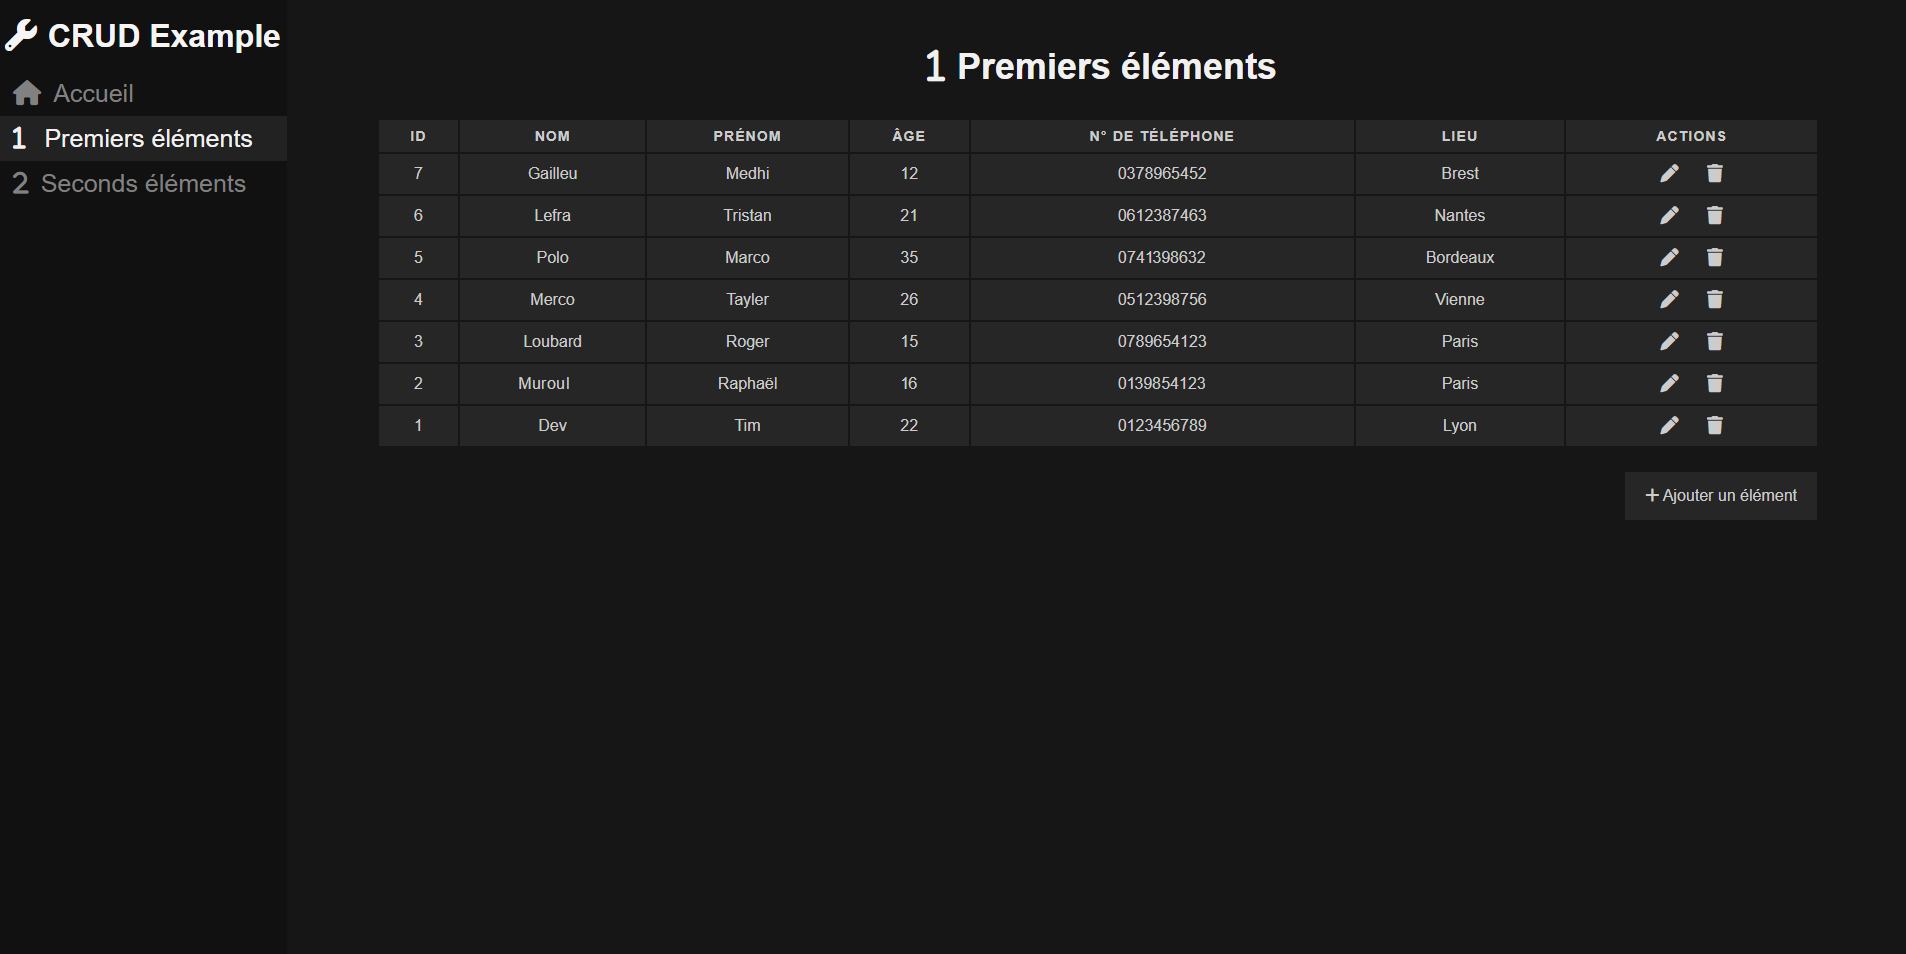
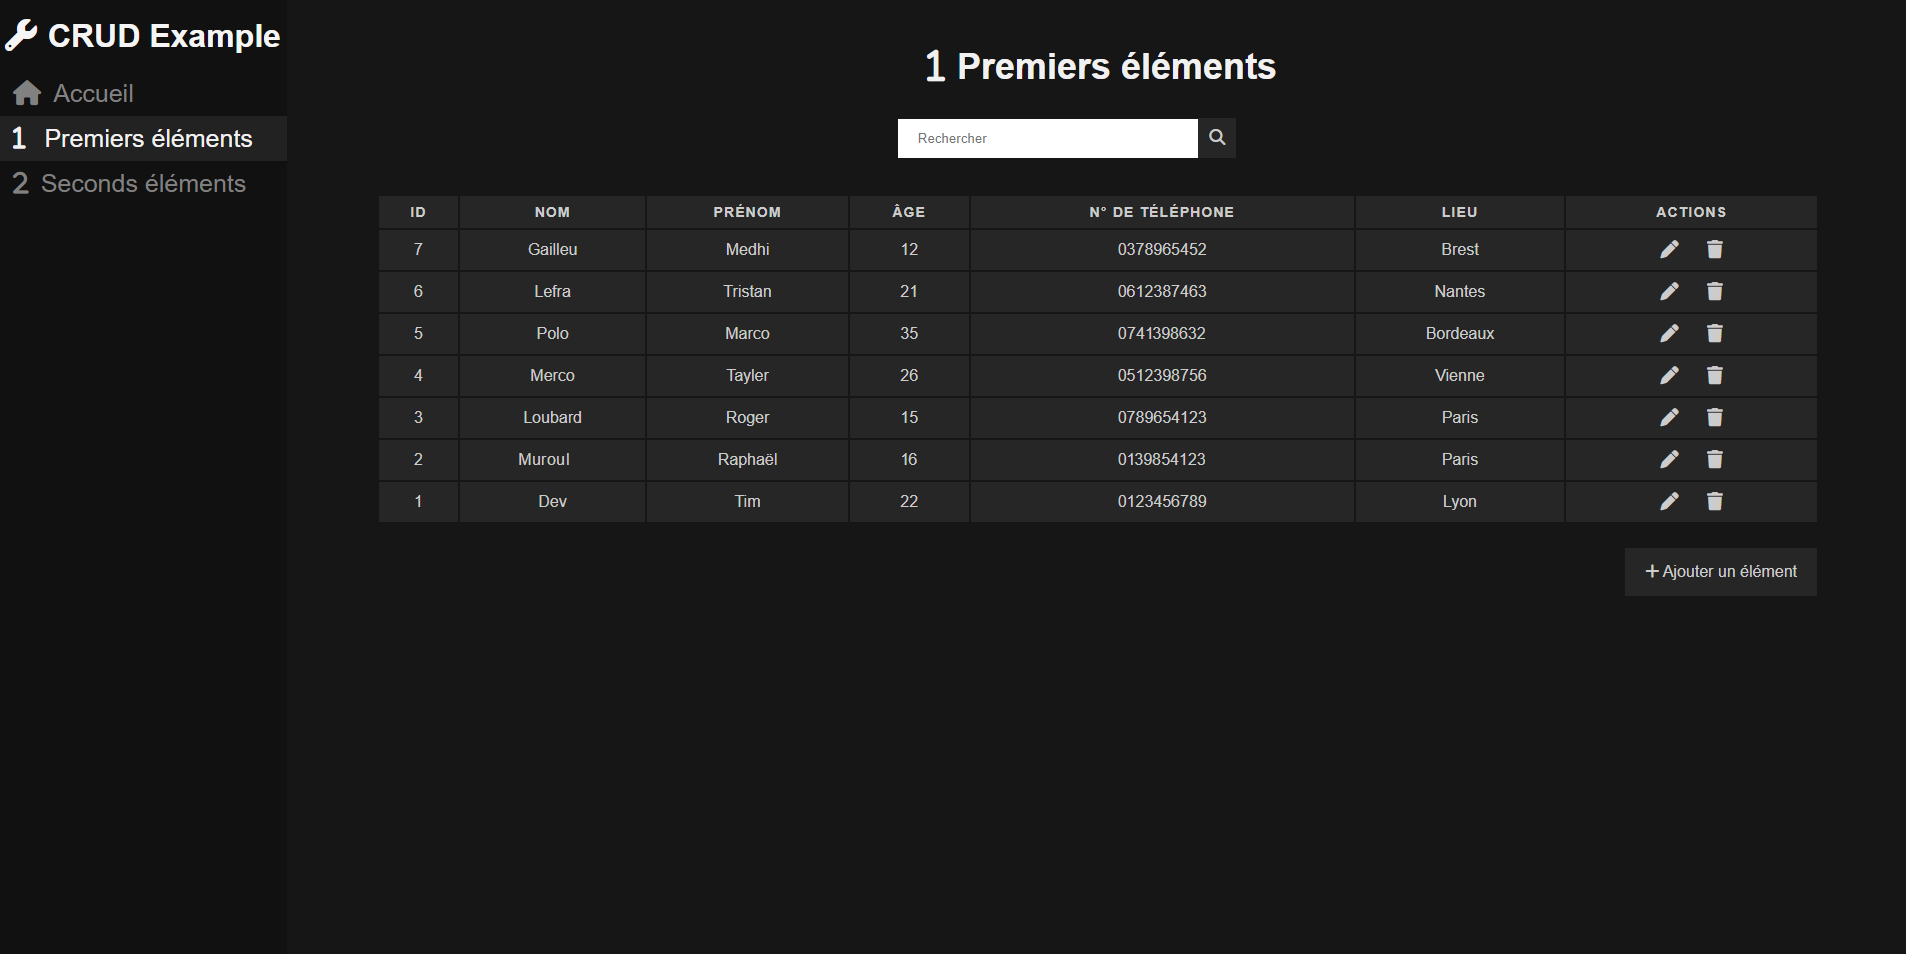
Add files via upload

diff --git a/assets/css/style.css b/assets/css/style.css
@@ -178,3 +178,31 @@ input[type=text], input[type=number] {
     float: left;
     margin-left: 82px;
 }
+
+.search {
+    align-items: center;
+    width: 25%;
+    margin-left: auto;
+    margin-right: auto;
+}
+
+.search input[type=text] {
+    display: inline-block;
+    box-sizing: border-box;
+    border: none;
+    outline: none;
+    width: 75%;
+}
+
+.search a {
+    display: inline-block;
+    background-color: #262626;
+    color:#ccc;
+    text-decoration: none;
+    padding: 11px;
+}
+
+.search a:hover {
+    background-color: #333333;
+    cursor: pointer;
+}

diff --git a/assets/js/query.js b/assets/js/query.js
@@ -1,0 +1,13 @@
+var search = document.getElementById('search');
+var button = document.getElementById('button');
+
+search.addEventListener("input", updateValue);
+search.addEventListener("keydown", function(e) {
+    if (e.key === "Enter") {
+        window.location.href = "?search=" + e.target.value;
+    }
+});
+
+function updateValue(e) {
+    button.href = "?search=" + e.target.value;
+};

diff --git a/second/index.php b/second/index.php
@@ -2,8 +2,8 @@
     #Inclure la base de données
     include("../config/database.php");
 
-    #Rediriger vers la page d'accueil avec une variable de page page si celle-ci n'est pas définie
-    if(!isset($_GET["page"])) {
+    #Rediriger vers la page d'accueil avec une variable de page page si celle-ci n'est pas définie ou si la recherche est vide
+    if(!isset($_GET["page"]) && (!isset($_GET["search"]) || $_GET["search"] == "")) {
         header("Location: ?page=1");
     }
 ?>
@@ -34,6 +34,11 @@
     <div class="main">
         <h1 class="label"><i class="fa-solid fa-2 title-icon"></i> Seconds éléments</h1>
         <br>
+        <div class="search">
+            <!-- Afficher le champ de recherche avec celui-ci si on a déja une recherche en cours -->
+            <input type="text" class="search" placeholder="Rechercher" name="search" id="search" value="<?php if(isset($_GET["search"])) { echo $_GET["search"]; } ?>"><a href="" id="button"><i class="fa-solid fa-search"></i></a>
+        </div>
+        <br><br>
         <table>
         <thead>
         <tr>
@@ -46,20 +51,30 @@
         </thead>
         <?php
             #Définir le nombre d'éléments par page
-            $total = 12;
-            #Si la page est définie et qu'elle est supérieure à 1
-            if(isset($_GET["page"]) && $_GET["page"] > 1) {
-                #Définir l'ID de l'élément à partir duquel la requête va chercher les éléments
-                $id_page = ($total * ($_GET["page"] - 1) ) + 1;
-                #Définir la requête commençant à l'ID défini précédemment et limitée au nombre d'éléments par page
-                $requete = "SELECT * FROM second WHERE id >= $id_page ORDER BY id DESC LIMIT $total";
+            $total = 10;
+            if(isset($_GET["search"])) {
+                #Définir la requête avec la recherche
+                $requete = $cnn->prepare("SELECT * FROM second WHERE name LIKE :search OR description LIKE :search OR price LIKE :search");
+                #Exécuter la requête
+                $requete->execute(['search' => '%'.$_GET["search"].'%']);
+                #Définir le résultat de la requête
+                $resultat = $requete;
             }
             else {
-                #Définir la requête limitée au nombre d'éléments par page
-                $requete = "SELECT * FROM second ORDER BY id DESC LIMIT $total";
+                #Si la page est définie et qu'elle est supérieure à 1
+                if(isset($_GET["page"]) && $_GET["page"] > 1) {
+                    #Définir l'ID de l'élément à partir duquel la requête va chercher les éléments
+                    $id_page = ($total * ($_GET["page"] - 1) ) + 1;
+                    #Définir la requête commençant à l'ID défini précédemment et limitée au nombre d'éléments par page
+                    $requete = "SELECT * FROM second WHERE id >= $id_page ORDER BY id DESC LIMIT $total";
+                }
+                else {
+                    #Définir la requête limitée au nombre d'éléments par page
+                    $requete = "SELECT * FROM second ORDER BY id DESC LIMIT $total";
+                }
+                #Exécuter la requête
+                $resultat = $cnn->query($requete) or die(print_r($bdd->errorInfo()));
             }
-            #Exécuter la requête
-            $resultat = $cnn->query($requete) or die(print_r($bdd->errorInfo()));
             while($row = $resultat->fetch()){
                 #Afficher les éléments
                 $id = html_entity_decode($row['id']);
@@ -73,7 +88,7 @@
                 <td data-label='ID'>$id</td>
                 <td data-label='Name'>$name</td>
                 <td data-label='Description'>$description</td>
-                <td data-label='Price'>$price</td>
+                <td data-label='Price'>$price €</td>
                 <td data-label='Actions'>
                 <a href='edit?id=$id' class='edit'><i class='fa-solid fa-pen table-icon'></i></a>
                 <a href='delete?id=$id' class='delete'><i class='fa-solid fa-trash table-icon'></i></a>
@@ -126,3 +141,5 @@
     </div>
 </body>
 </html>
+<!-- Inclure le script de recherche -->
+<script src="../assets/js/query.js"></script>

diff --git a/first/index.php b/first/index.php
@@ -2,8 +2,8 @@
     #Inclure la base de données
     include("../config/database.php");
 
-    #Rediriger vers la page d'accueil avec une variable de page page si celle-ci n'est pas définie
-    if(!isset($_GET["page"])) {
+    #Rediriger vers la page d'accueil avec une variable de page page si celle-ci n'est pas définie ou si la recherche est vide
+    if(!isset($_GET["page"]) && (!isset($_GET["search"]) || $_GET["search"] == "")) {
         header("Location: ?page=1");
     }
 ?>
@@ -34,6 +34,11 @@
     <div class="main">
         <h1 class="label"><i class="fa-solid fa-1 title-icon"></i> Premiers éléments</h1>
         <br>
+        <div class="search">
+            <!-- Afficher le champ de recherche avec celui-ci si on a déja une recherche en cours -->
+            <input type="text" class="search" placeholder="Rechercher" name="search" id="search" value="<?php if(isset($_GET["search"])) { echo $_GET["search"]; } ?>"><a href="" id="button"><i class="fa-solid fa-search"></i></a>
+        </div>
+        <br><br>
         <table>
         <thead>
         <tr>
@@ -48,20 +53,30 @@
         </thead>
         <?php
             #Définir le nombre d'éléments par page
-            $total = 12;
-            #Si la page est définie et qu'elle est supérieure à 1
-            if(isset($_GET["page"]) && $_GET["page"] > 1) {
-                #Définir l'ID de l'élément à partir duquel la requête va chercher les éléments
-                $id_page = ($total * ($_GET["page"] - 1) ) + 1;
-                #Définir la requête commençant à l'ID défini précédemment et limitée au nombre d'éléments par page
-                $requete = "SELECT * FROM first WHERE id >= $id_page ORDER BY id DESC LIMIT $total";
+            $total = 10;
+            if(isset($_GET["search"])) {
+                #Définir la requête avec la recherche
+                $requete = $cnn->prepare("SELECT * FROM first WHERE last_name LIKE :search OR first_name LIKE :search OR age LIKE :search OR phone LIKE :search OR area LIKE :search");
+                #Exécuter la requête
+                $requete->execute(['search' => '%'.$_GET["search"].'%']);
+                #Définir le résultat de la requête
+                $resultat = $requete;
             }
             else {
-                #Définir la requête limitée au nombre d'éléments par page
-                $requete = "SELECT * FROM first ORDER BY id DESC LIMIT $total";
+                #Si la page est définie et qu'elle est supérieure à 1
+                if(isset($_GET["page"]) && $_GET["page"] > 1) {
+                    #Définir l'ID de l'élément à partir duquel la requête va chercher les éléments
+                    $id_page = ($total * ($_GET["page"] - 1) ) + 1;
+                    #Définir la requête commençant à l'ID défini précédemment et limitée au nombre d'éléments par page
+                    $requete = "SELECT * FROM first WHERE id >= $id_page ORDER BY id DESC LIMIT $total";
+                }
+                else {
+                    #Définir la requête limitée au nombre d'éléments par page
+                    $requete = "SELECT * FROM first ORDER BY id DESC LIMIT $total";
+                }
+                #Exécuter la requête
+                $resultat = $cnn->query($requete) or die(print_r($bdd->errorInfo()));
             }
-            #Exécuter la requête
-            $resultat = $cnn->query($requete) or die(print_r($bdd->errorInfo()));
             while($row = $resultat->fetch()){
                 #Définir les variables à partir des données de la base de données
                 $id = html_entity_decode($row['id']);
@@ -131,3 +146,5 @@
     </div>
 </body>
 </html>
+<!-- Inclure le script de recherche -->
+<script src="../assets/js/query.js"></script>
